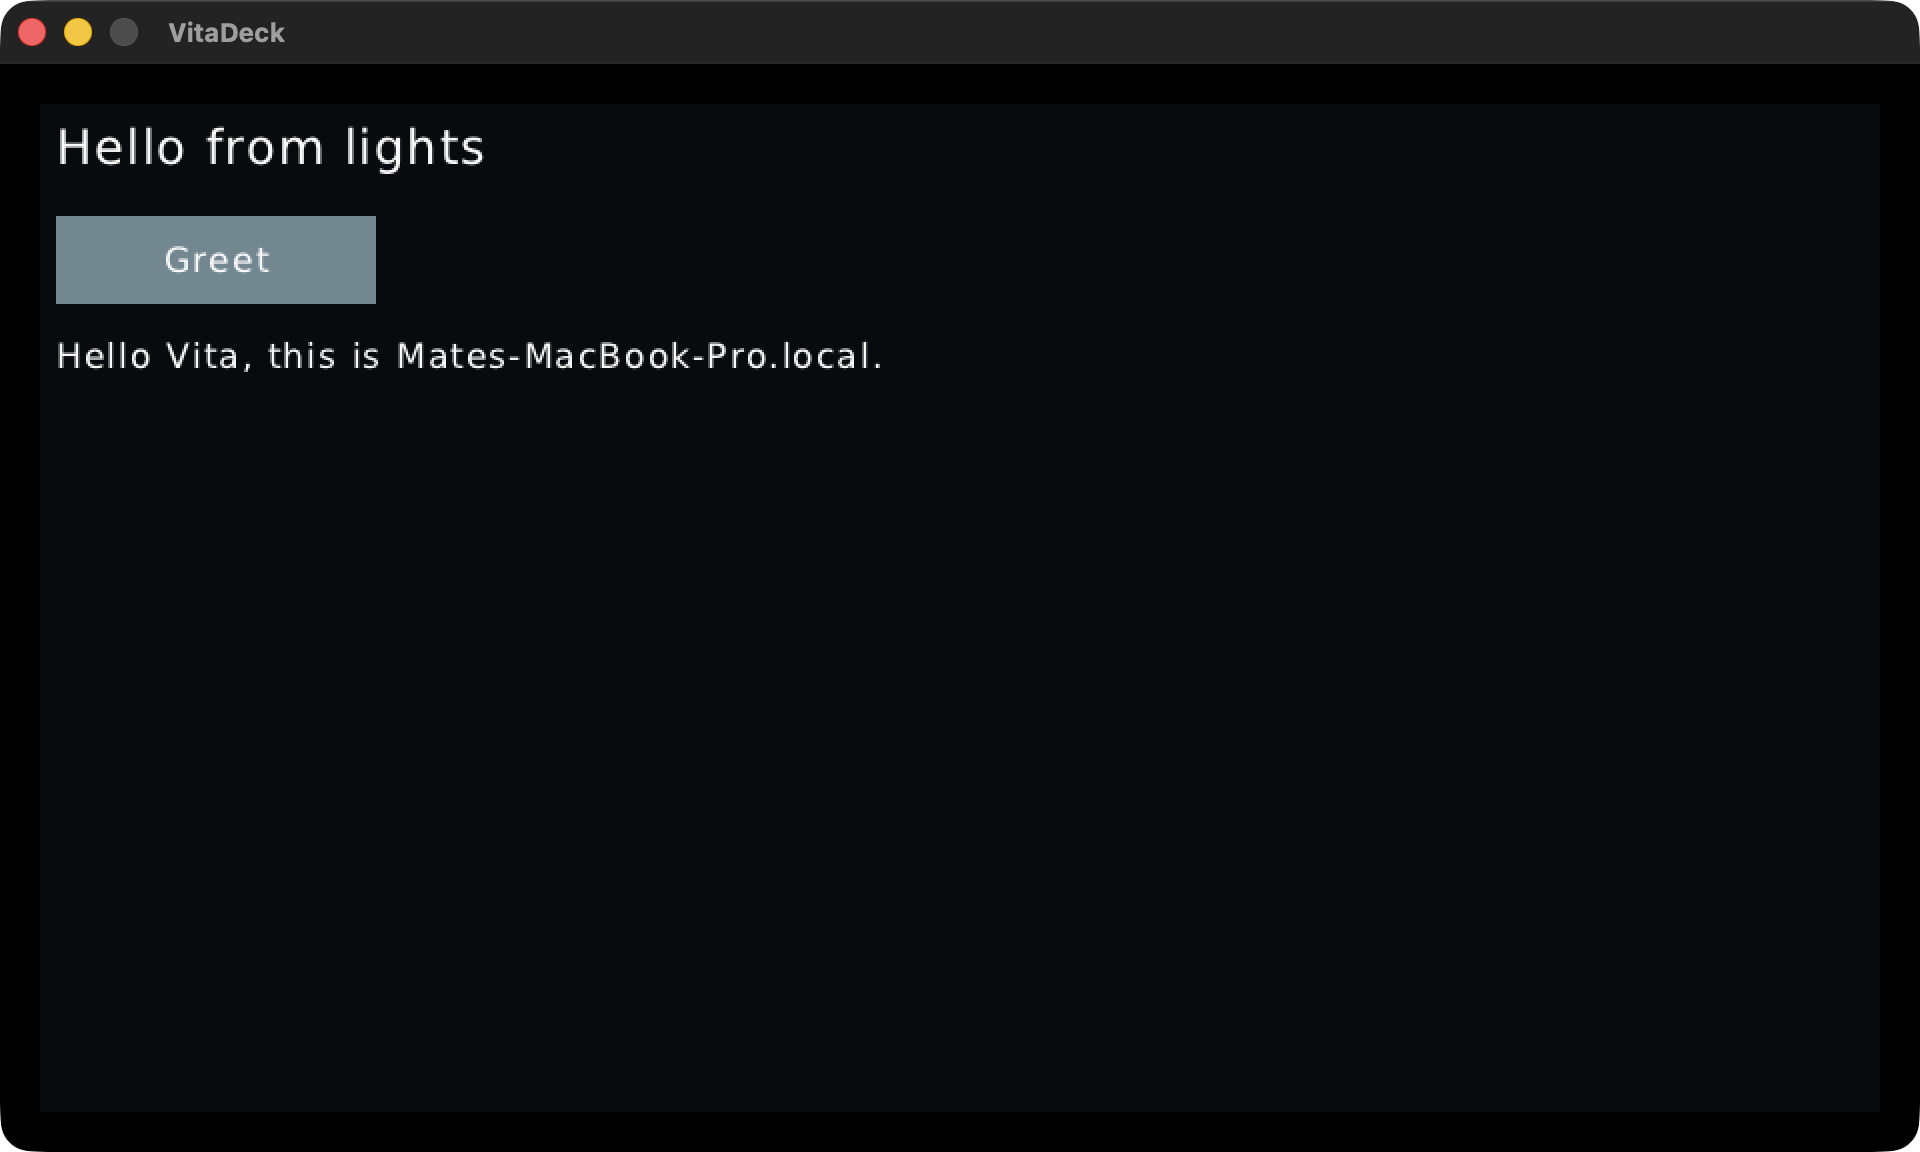
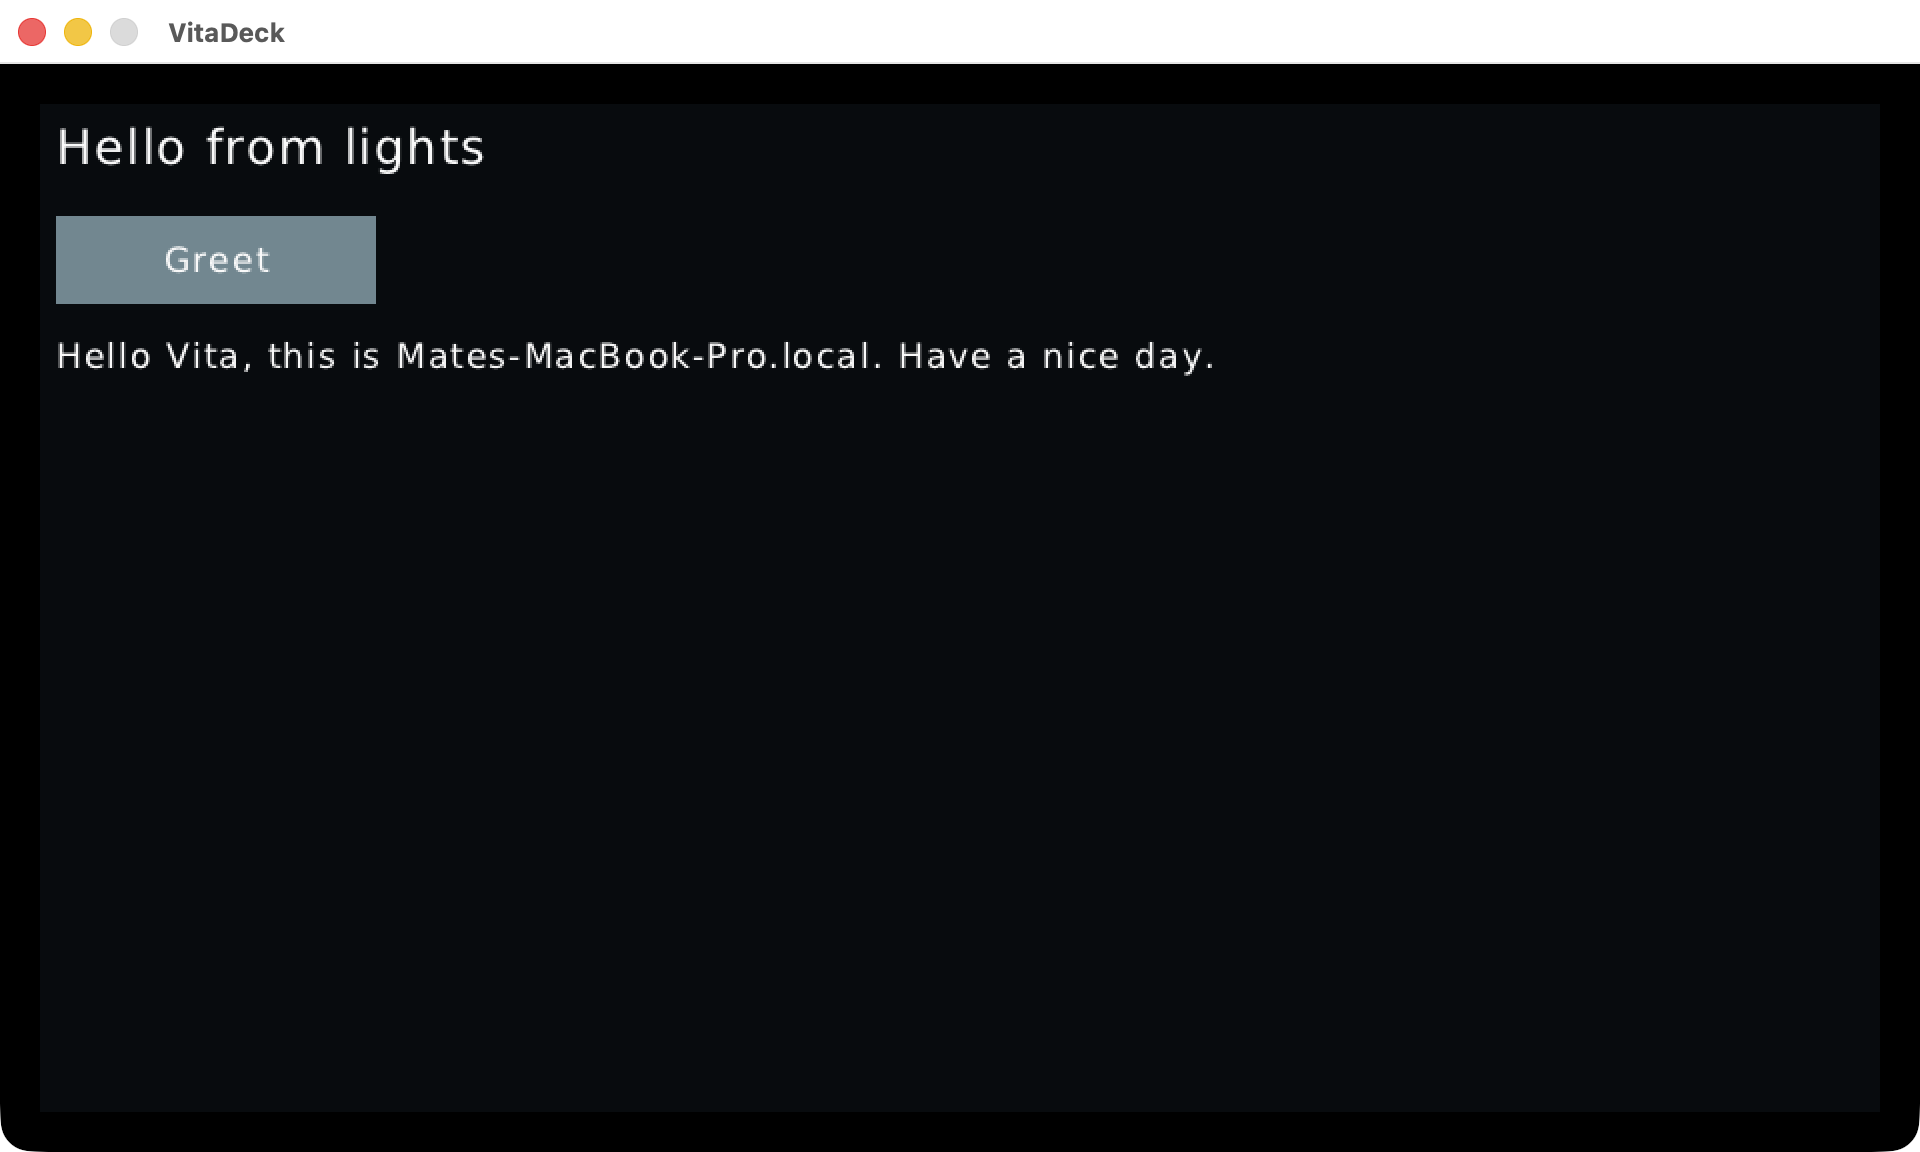
Publish site host-plugin-screenshots

Changed region(s): [[0.0, 0.0, 1.0, 0.0625], [0.4688, 0.2812, 0.625, 0.3438]]

diff --git a/site/host-plugin-screenshots/index.html b/site/host-plugin-screenshots/index.html
@@ -1,9 +1,9 @@
-<!doctype html><meta charset="utf-8"><title>Host Plugin Files: host window run</title>
+<!doctype html><meta charset="utf-8"><title>Host Plugin Packages: host window run</title>
 <style>body{font-family:system-ui;max-width:1000px;margin:2rem auto;background:#111;color:#eee}img{width:100%;border:1px solid #333;margin-bottom:2rem}</style>
-<h1>Host Plugin Files: external project, run in the macOS host window</h1>
+<h1>Host Plugin Packages: external project, run in the macOS host window</h1>
 <p>Both packages are packed. The companion is installed globally with <code>npm i -g</code> into a temp prefix. <code>lights</code> is scaffolded outside the repo with <code>vitadeck create lights --host-plugin</code>.</p>
 <h2>1. The Shell's link hint names the global CLI</h2><img src="02-host-control-screen.png">
 <h2>2. The demo app uses the built-in systemStats; capabilities list the installed lights plugin</h2><img src="04-demo-capabilities.png">
-<h2>3. The scaffolded app calls its own plugin</h2><img src="06-lights-greet.png">
-<h2>4. Edit host/companion.ts, run vitadeck build, and the companion reloads with no restart</h2><img src="07-lights-reloaded.png">
+<h2>3. After <code>vitadeck-host-companion install dist/lights.vdplugin.zip</code>, the scaffolded app calls its own plugin, which reads <code>files/motd.txt</code> from its package</h2><img src="06-lights-greet.png">
+<h2>4. Under <code>npm run host</code> (<code>--plugin ./dist</code>), edit host/files/motd.txt and run vitadeck build: the companion reloads with no restart</h2><img src="07-lights-reloaded.png">
 <h2>5. After vitadeck-host-companion remove lights, the app gets unknown_plugin</h2><img src="08-lights-removed.png">

diff --git a/index.html b/index.html
@@ -9,8 +9,8 @@
     <h1>Published sites</h1>
     <p>A workflow removes a pull request folder when that pull request closes. Sites older than 30 days are dropped.</p>
     <ul>
+      <li><a href="./site/host-plugin-screenshots/">host-plugin-screenshots</a> <time datetime="2026-10-29T05:11:09.678Z">2026-10-29</time></li>
       <li><a href="./pr/145/">PR #145</a> <time datetime="2026-10-29T05:03:49.270Z">2026-10-29</time></li>
-      <li><a href="./site/host-plugin-screenshots/">host-plugin-screenshots</a> <time datetime="2026-10-29T04:56:22.514Z">2026-10-29</time></li>
       <li><a href="./pr/144/">PR #144</a> <time datetime="2026-10-28T22:56:36.246Z">2026-10-28</time></li>
       <li><a href="./site/host-control-screenshots/">host-control-screenshots</a> <time datetime="2026-10-28T22:49:42.103Z">2026-10-28</time></li>
       <li><a href="./site/stats/">stats</a> <time datetime="2026-10-26T07:02:14.853Z">2026-10-26</time></li>
